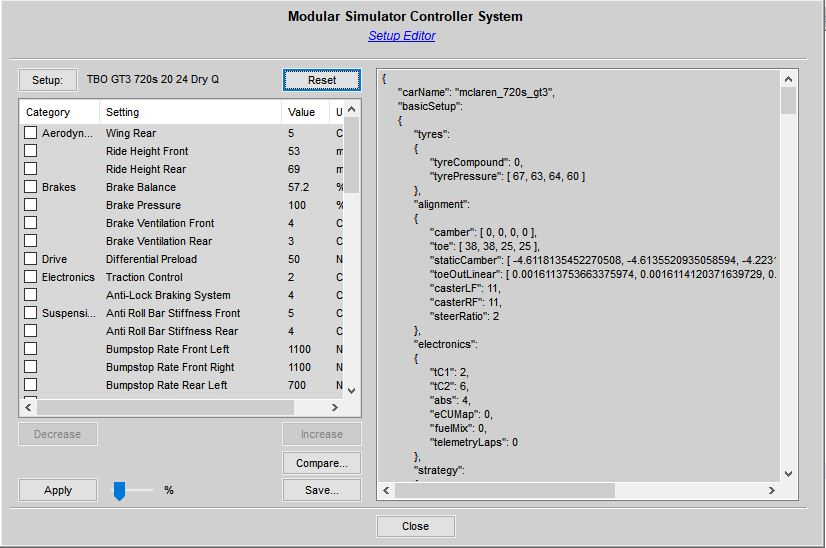
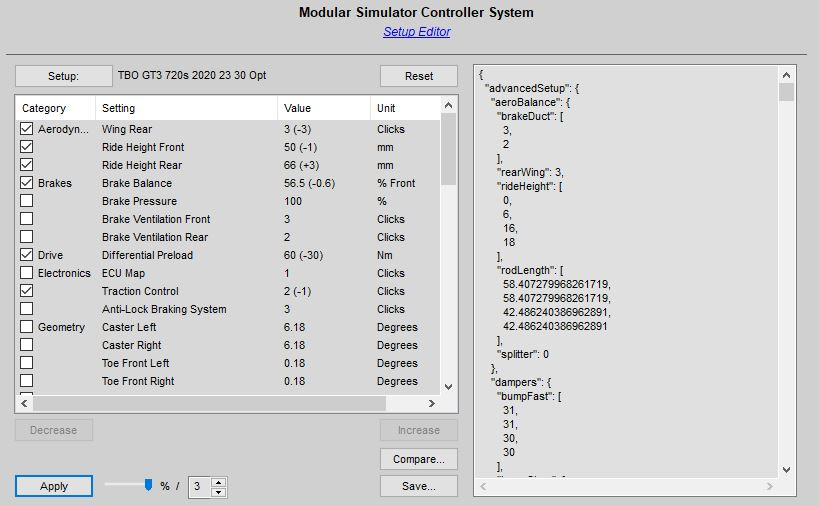
Max increment setting for setup changes

diff --git a/Docs/Setup Workbench.md b/Docs/Setup Workbench.md
@@ -362,7 +362,7 @@ After you have described your problems and reviewed the recommendations of "Setu
 
 ![](https://github.com/SeriousOldMan/Simulator-Controller/blob/Development/Docs/Images/Setup%20Editor%201.JPG)
 
-On the right side, you will see the simulator specific content of the setup file, in this case a setup for *Assetto Corsa Competizione* in a JSON format. In the list on the right, all settings known to "Setup Workbench", which are valid for the currently selected simulator and car will be listed together with their values from the currently loaded setup file. You can select a setting in this list and change its value using the "Increase" or "Decrease" button. Much more interesting is the "Apply" button below. When you click this button, all recommendations of the "Setup Workbench" will be applied as balanced changes to the currently loaded setup. You can specify with the small slider to the right of the button the amount of the applied changes, thereby filtering small and possibly unneccessary changes. You will then see a list like this:
+On the right side, you will see the simulator specific content of the setup file, in this case a setup for *Assetto Corsa Competizione* in a JSON format. In the list on the right, all settings known to "Setup Workbench", which are valid for the currently selected simulator and car will be listed together with their values from the currently loaded setup file. You can select a setting in this list and change its value using the "Increase" or "Decrease" button. Much more interesting is the "Apply" button below. When you click this button, all recommendations of the "Setup Workbench" will be applied as balanced changes to the currently loaded setup. You can specify with the small slider to the right of the button the amount of the applied changes, thereby filtering small and possibly unneccessary changes. Additionally you can restrict the maximum increment applied to a setting of the setup at once with the edit field on the right of the slider. You will then see a list like this:
 
 ![](https://github.com/SeriousOldMan/Simulator-Controller/blob/Development/Docs/Images/Setup%20Editor%202.JPG)
 

diff --git a/README.md b/README.md
@@ -46,7 +46,7 @@ Please read the [Release Notes](https://github.com/SeriousOldMan/Simulator-Contr
 
 #### Current development build
 
-[7.2.5.0-beta](https://fileshare.impresion3d.pro/filebrowser/api/public/dl/-y_FQ8dY?inline=true) (Test build for 7.2.5. Changes: New car models for "Setup Workbench", Fixed Driving Coach reference lap saving, Update R3E car database, Fixed wrong car names for ACE, Show more undriven cars in "Setup Workbench", Fixed overlong car names for ACE, Fixed RawHandler in "Setup Workbench".)
+[7.2.5.0-beta](https://fileshare.impresion3d.pro/filebrowser/api/public/dl/-y_FQ8dY?inline=true) (Test build for 7.2.5. Changes: New car models for "Setup Workbench", Fixed Driving Coach reference lap saving, Update R3E car database, Fixed wrong car names for ACE, Show more undriven cars in "Setup Workbench", Fixed overlong car names for ACE, Fixed RawHandler in "Setup Workbench", Max increment setting for setup changes.)
 
 Please read the [Release Notes](https://github.com/SeriousOldMan/Simulator-Controller/wiki/Release-Notes#7250) and - sometimes even, Fixed startup crash in "Strategy Workbench" more important - the release specific [Update Notes](https://github.com/SeriousOldMan/Simulator-Controller/wiki/Update-Notes#release-725) of this version and all the versions you might have skipped, before installing and using this version.
 

diff --git a/Docs/Releases.md b/Docs/Releases.md
@@ -51,6 +51,7 @@
 
   - Updated car database and also the the tyre information for *RaceRoom Racing Experience* by @inthebagbud UK.
   - Introduced extended car name handling for *Assetto Corsa EVO*, so the cars like "KTM X-Bow GT4", which is named without the hyphen internally by *Assetto Corsa EVO*, are named correctly.
+  - Added a new field to the Setup Editor of "Setup Workbench", which allows you to restrict the number of setting increments when applying recommendations to a setup file.
   - [Internal] Migrated to AHK 2.1-alpha.31.
   - New and updated car models for "Setup Workbench":
     - Le Mans Ultimate
